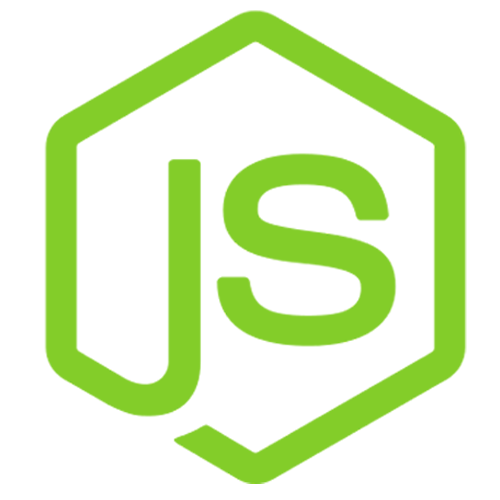
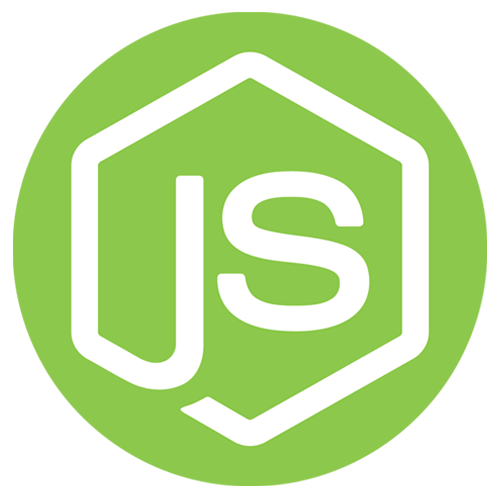
update node image

diff --git a/_posts/2018-9-21-topten.html b/_posts/2018-9-21-topten.html
@@ -2,7 +2,7 @@
 layout: project
 title: BBCtopten
 lang: Javascipt
-langicon: "/images/npm.png"
+langicon: "/images/node.png"
 description: A node shell script scraper.
 permalink: /projects/bbctop10
 repo: https://github.com/s33dco/bbctopten
